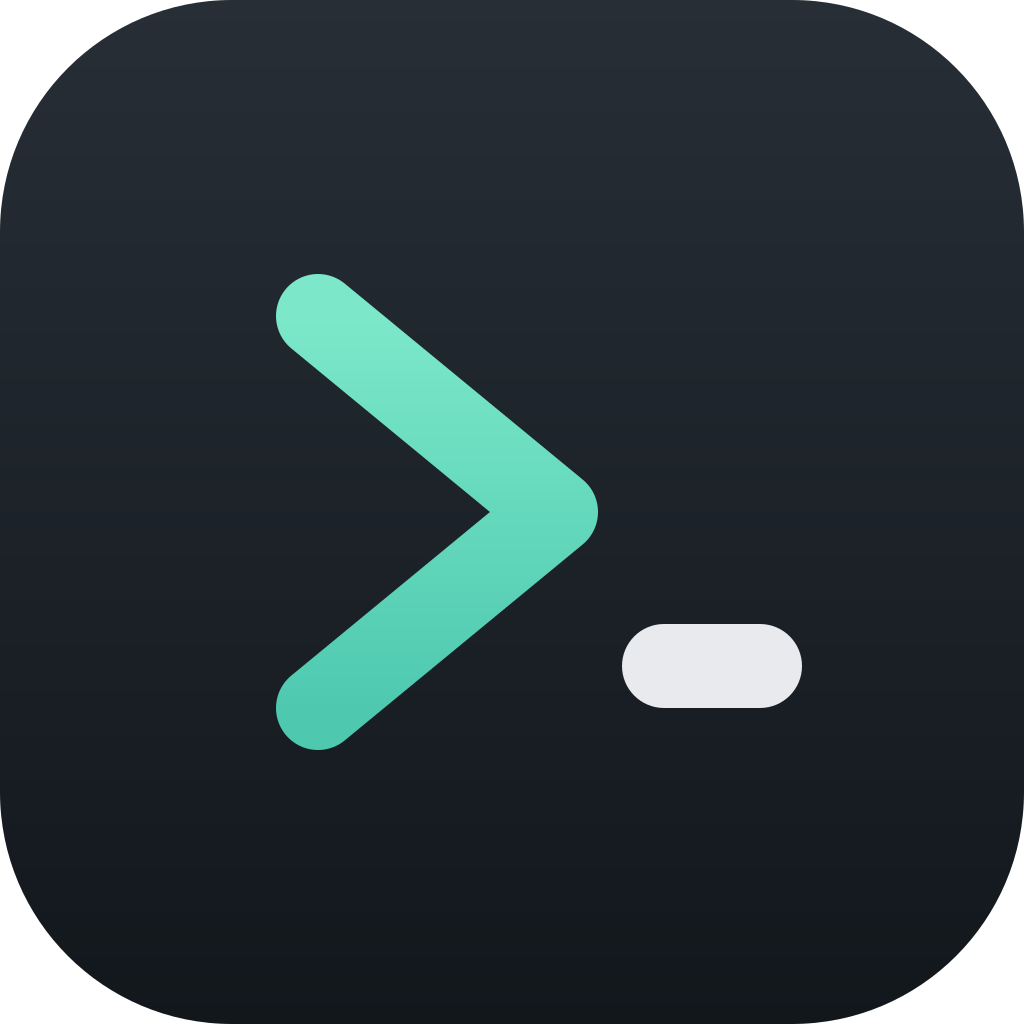
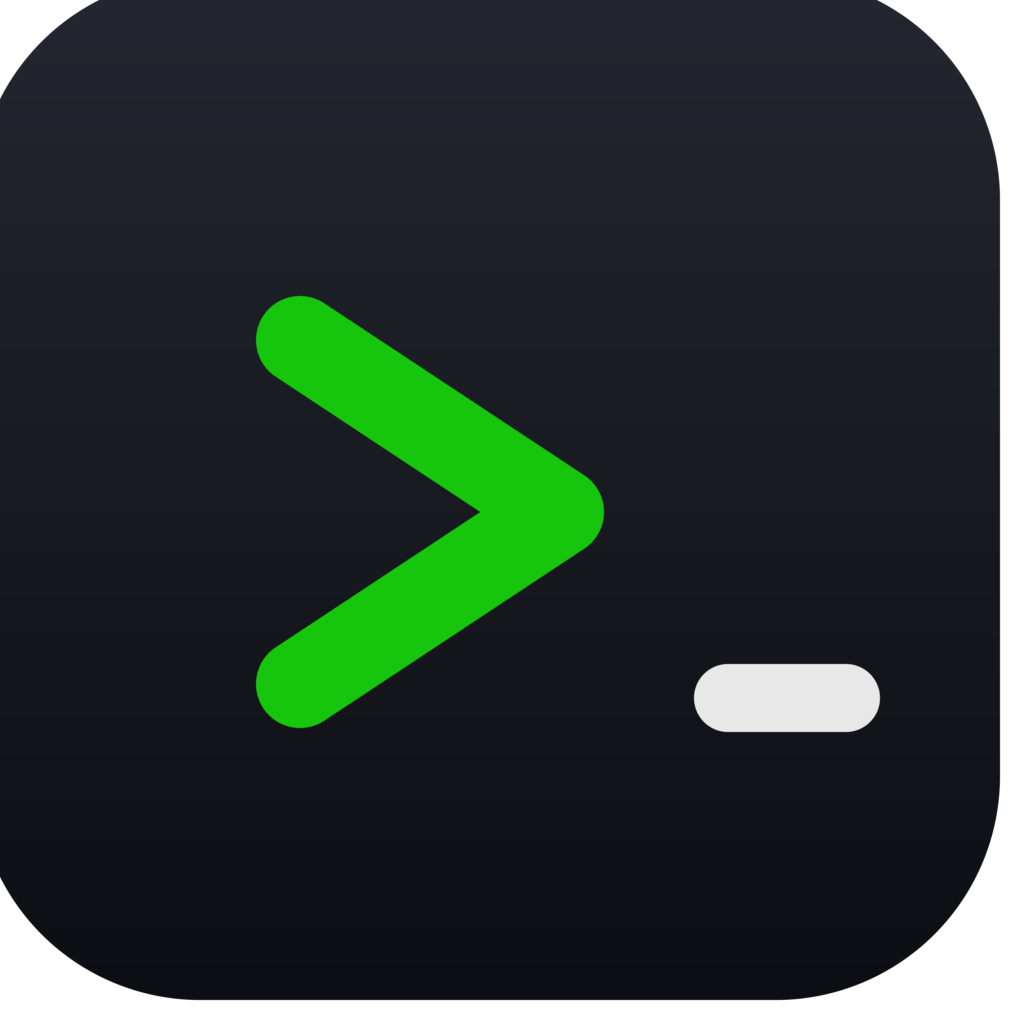
feat: exe 图标与版本信息，入口移到仓库根
resources/icon.png 是 tools/genicon 用 SDF 画出的 1024x1024 图标，
tools/resync.ps1 读 mygo.json 的版本号，跑 genicon 与 go-winres 生成
rsrc_windows_amd64.syso（图标 + 版本资源），go build 会把它链进 exe。

单包程序不需要 cmd/ 这层，入口与资源因此移到仓库根，mygo.json 的 main 改成 "."，
build.ps1 跟着构建 "."。

diff --git a/tools/genicon/main.go b/tools/genicon/main.go
@@ -1,0 +1,143 @@
+// Command genicon draws the app icon: a rounded dark square with a green
+// chevron and a cursor bar, at the sizes Windows, macOS and Linux ask for.
+// The PNG it writes is what `go tool mygo build` embeds, and what
+// tools/resync.ps1 hands to go-winres for the exe's own icon.
+package main
+
+import (
+	"image"
+	"image/color"
+	"image/png"
+	"math"
+	"os"
+	"path/filepath"
+)
+
+const size = 1024
+
+func main() {
+	out := filepath.Join("resources", "icon.png")
+	if len(os.Args) > 1 {
+		out = os.Args[1]
+	}
+	img := draw(size)
+	if err := os.MkdirAll(filepath.Dir(out), 0o755); err != nil {
+		fail(err)
+	}
+	f, err := os.Create(out)
+	if err != nil {
+		fail(err)
+	}
+	defer f.Close()
+	if err := png.Encode(f, img); err != nil {
+		fail(err)
+	}
+}
+
+func fail(err error) {
+	os.Stderr.WriteString("genicon: " + err.Error() + "\n")
+	os.Exit(1)
+}
+
+// draw renders the icon at n pixels square, with four samples per axis: the
+// shapes are few and the edges are the whole design.
+func draw(n int) *image.NRGBA {
+	img := image.NewNRGBA(image.Rect(0, 0, n, n))
+	scale := float64(n) / size
+	const samples = 4
+	for y := range n {
+		for x := range n {
+			var r, g, b, a float64
+			for sy := range samples {
+				for sx := range samples {
+					px := (float64(x) + (float64(sx)+0.5)/samples) / scale
+					py := (float64(y) + (float64(sy)+0.5)/samples) / scale
+					cr, cg, cb, ca := at(px, py)
+					r, g, b, a = r+cr*ca, g+cg*ca, b+cb*ca, a+ca
+				}
+			}
+			if a == 0 {
+				continue
+			}
+			n4 := float64(samples * samples)
+			img.SetNRGBA(x, y, color.NRGBA{
+				R: clamp8(r / a),
+				G: clamp8(g / a),
+				B: clamp8(b / a),
+				A: clamp8(a / n4 * 255),
+			})
+		}
+	}
+	return img
+}
+
+// at is the color at a point of the 1024 square, its alpha the coverage.
+func at(x, y float64) (float64, float64, float64, float64) {
+	const (
+		inset  = 24.0
+		radius = 200.0
+	)
+	// The plate: a rounded square, its color a slight top-to-bottom gradient
+	// so the icon reads as a surface rather than a flat sticker.
+	in := sdRoundRect(x, y, 1024-2*inset, 1024-2*inset, radius) - inset
+	cover := coverage(in)
+	if cover <= 0 {
+		return 0, 0, 0, 0
+	}
+	t := clamp01(y / 1024)
+	bgR := lerp(0x23, 0x0c, t)
+	bgG := lerp(0x26, 0x0d, t)
+	bgB := lerp(0x2e, 0x12, t)
+
+	// The prompt: a chevron in the terminal's own green, and a cursor bar of
+	// near white beside it.
+	green := [3]float64{0x16, 0xc6, 0x0c}
+	white := [3]float64{0xe8, 0xe8, 0xe8}
+	const stroke = 44.0
+	chevron := math.Min(
+		sdSegment(x, y, 300, 340, 560, 512)-stroke,
+		sdSegment(x, y, 560, 512, 300, 684)-stroke,
+	)
+	bar := sdRoundRect(x-694, y-664, 186, 68, 34)
+
+	r, g, b := bgR, bgG, bgB
+	if c := coverage(chevron); c > 0 {
+		r, g, b = mix(r, g, b, green[0], green[1], green[2], c)
+	}
+	if c := coverage(bar); c > 0 {
+		r, g, b = mix(r, g, b, white[0], white[1], white[2], c)
+	}
+	return r, g, b, cover
+}
+
+// sdRoundRect is the signed distance to a w x h rounded rectangle whose top
+// left corner is (0, 0).
+func sdRoundRect(x, y, w, h, r float64) float64 {
+	dx := math.Abs(x-w/2) - (w/2 - r)
+	dy := math.Abs(y-h/2) - (h/2 - r)
+	ox, oy := math.Max(dx, 0), math.Max(dy, 0)
+	return math.Sqrt(ox*ox+oy*oy) + math.Min(math.Max(dx, dy), 0) - r
+}
+
+// sdSegment is the distance to the segment (x0, y0)-(x1, y1).
+func sdSegment(x, y, x0, y0, x1, y1 float64) float64 {
+	ex, ey := x1-x0, y1-y0
+	px, py := x-x0, y-y0
+	t := clamp01((px*ex + py*ey) / (ex*ex + ey*ey))
+	dx, dy := px-t*ex, py-t*ey
+	return math.Sqrt(dx*dx + dy*dy)
+}
+
+// coverage turns a signed distance into how much of the pixel the shape
+// covers: no more than one pixel of feathering.
+func coverage(d float64) float64 { return clamp01(0.5 - d) }
+
+func mix(r0, g0, b0, r1, g1, b1, t float64) (float64, float64, float64) {
+	return r0 + (r1-r0)*t, g0 + (g1-g0)*t, b0 + (b1-b0)*t
+}
+
+func lerp(a, b byte, t float64) float64 { return float64(a) + (float64(b)-float64(a))*t }
+
+func clamp01(v float64) float64 { return math.Min(1, math.Max(0, v)) }
+
+func clamp8(v float64) uint8 { return uint8(math.Min(255, math.Max(0, v+0.5))) }

diff --git a/internal/app/deps_test.go b/internal/app/deps_test.go
@@ -10,7 +10,7 @@ import (
 // rules are the internal packages each package may import, as
 // docs/代码导读.md draws the graph.
 var rules = map[string][]string{
-	"wtgo/cmd/wtgo":         {"wtgo/internal/app"},
+	"wtgo":                  {"wtgo/internal/app"},
 	"wtgo/internal/app":     {"wtgo/internal/action", "wtgo/internal/i18n", "wtgo/internal/layout", "wtgo/internal/pane", "wtgo/internal/profile", "wtgo/internal/store", "wtgo/internal/sys", "wtgo/internal/theme", "wtgo/internal/ui"},
 	"wtgo/internal/ui":      {"wtgo/internal/action", "wtgo/internal/i18n", "wtgo/internal/layout", "wtgo/internal/pane", "wtgo/internal/profile", "wtgo/internal/store", "wtgo/internal/theme"},
 	"wtgo/internal/theme":   {"wtgo/internal/store"},
